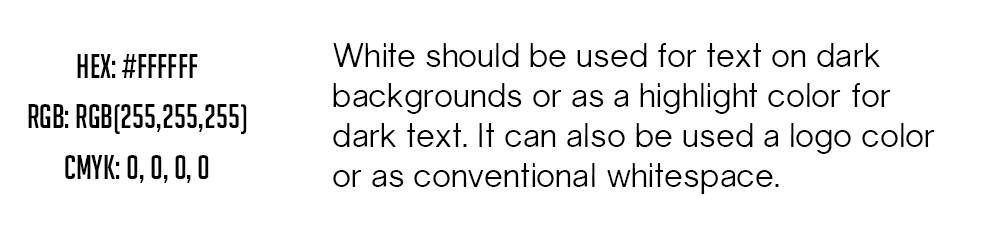
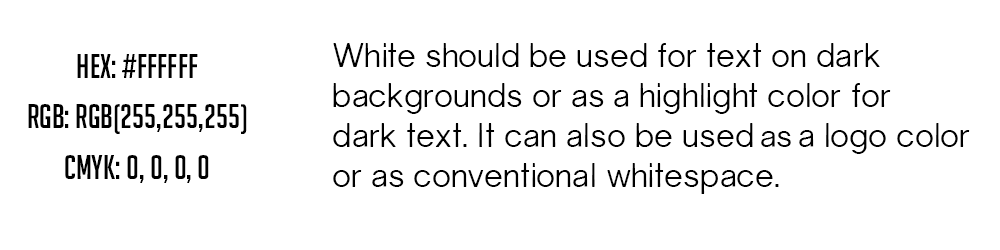
Typo fixes and design tweaks

Changed region(s): [[0.744, 0.504, 0.961, 0.616]]

diff --git a/README.md b/README.md
@@ -1,6 +1,6 @@
 ![](readme-media/branding-guidelines-title.png)
 
-![](logos/cryptid-profile-picture.png)
+![](readme-media/summary-logo.png)
 
 ![](readme-media/summary.png)
 
